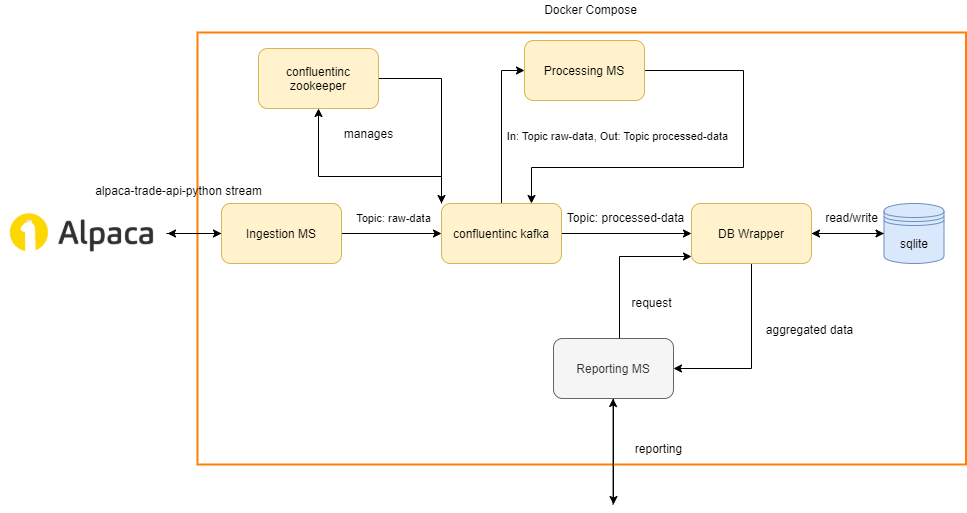
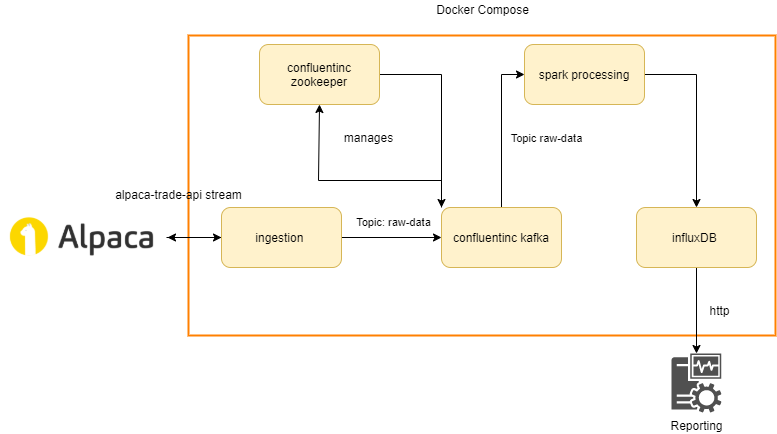
update architecture

Changed region(s): [[0.0, 0.0599, 1.0, 1.0], [0.556, 0.0, 0.6795, 0.03], [0.556, 0.659, 0.5869, 0.6889]]

diff --git a/README.md b/README.md
@@ -5,15 +5,15 @@ alpaca-market-stream is a docker based streaming solution to calculate, aggregat
 ### How to run
 
 - To use it you need to obtain access to [alpaca.markets](https://alpaca.markets/), see the [getting started documentation](https://alpaca.markets/docs/market-data/getting-started/).
-- [download and install docker](https://www.docker.com/products/docker-desktop/)
-- create `config.py` using the `example_config.py` as a template
-- fill in your alpaca key and secret
-- change credentials in `config.py` and `docker-compose.yaml` if wished
-- change `STOCK_CODE` if needed
-- create and activate a virtual environment if needed
-- install requirements via `pip install -r requirements.txt`
-- start docker
-- start the application via docker compose `docker-compose up --build`
+- [Download and install docker](https://www.docker.com/products/docker-desktop/)
+- Create `config.py` using the `example_config.py` as a template
+- Fill in your alpaca key and secret
+- Change credentials in `config.py` and `docker-compose.yaml` if wished
+- Change `STOCK_CODE` if needed
+- Create and activate a virtual environment if needed
+- Install requirements via `pip install -r requirements.txt`
+- Start docker
+- Start the application via docker compose `docker-compose up --build`
 
 ### See output
 - Navigate to http://localhost:8086/
